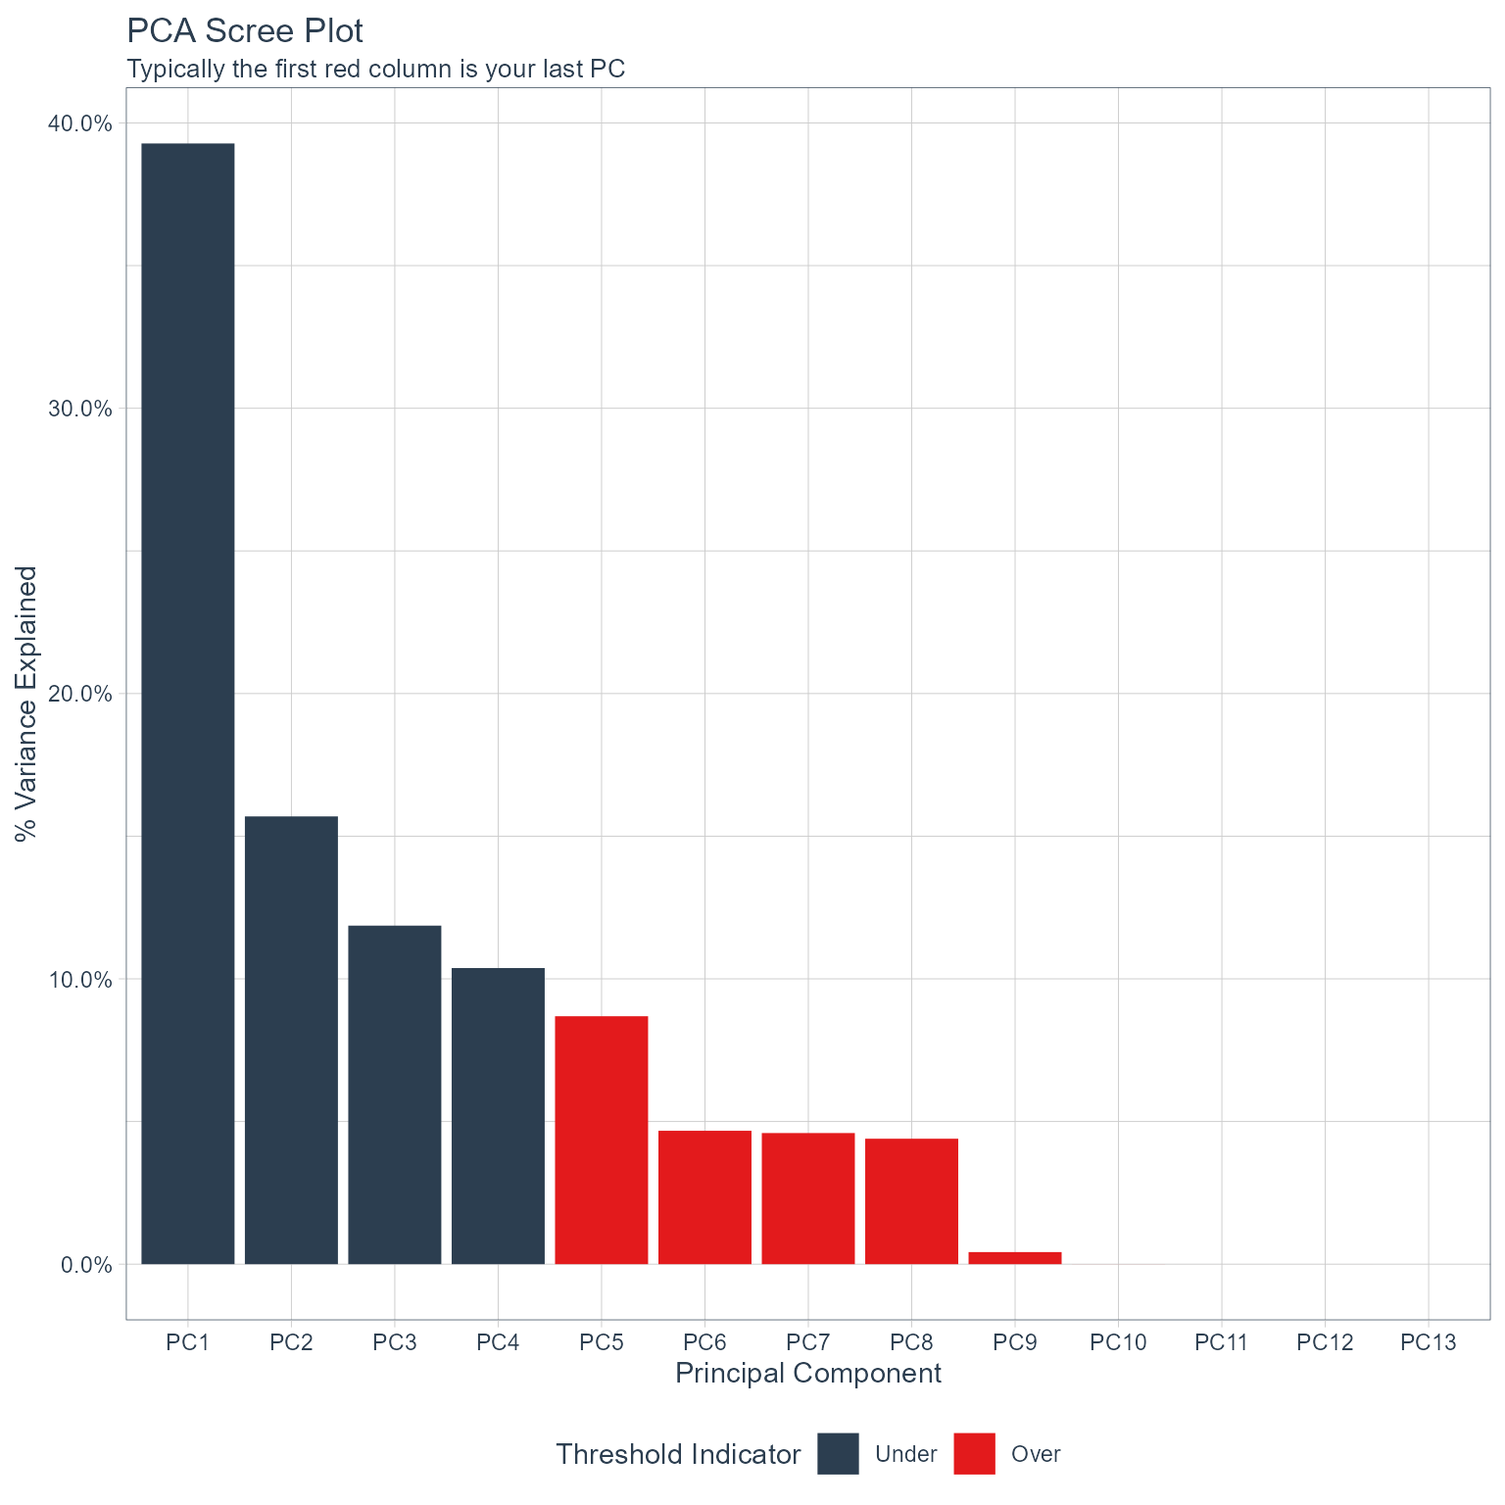
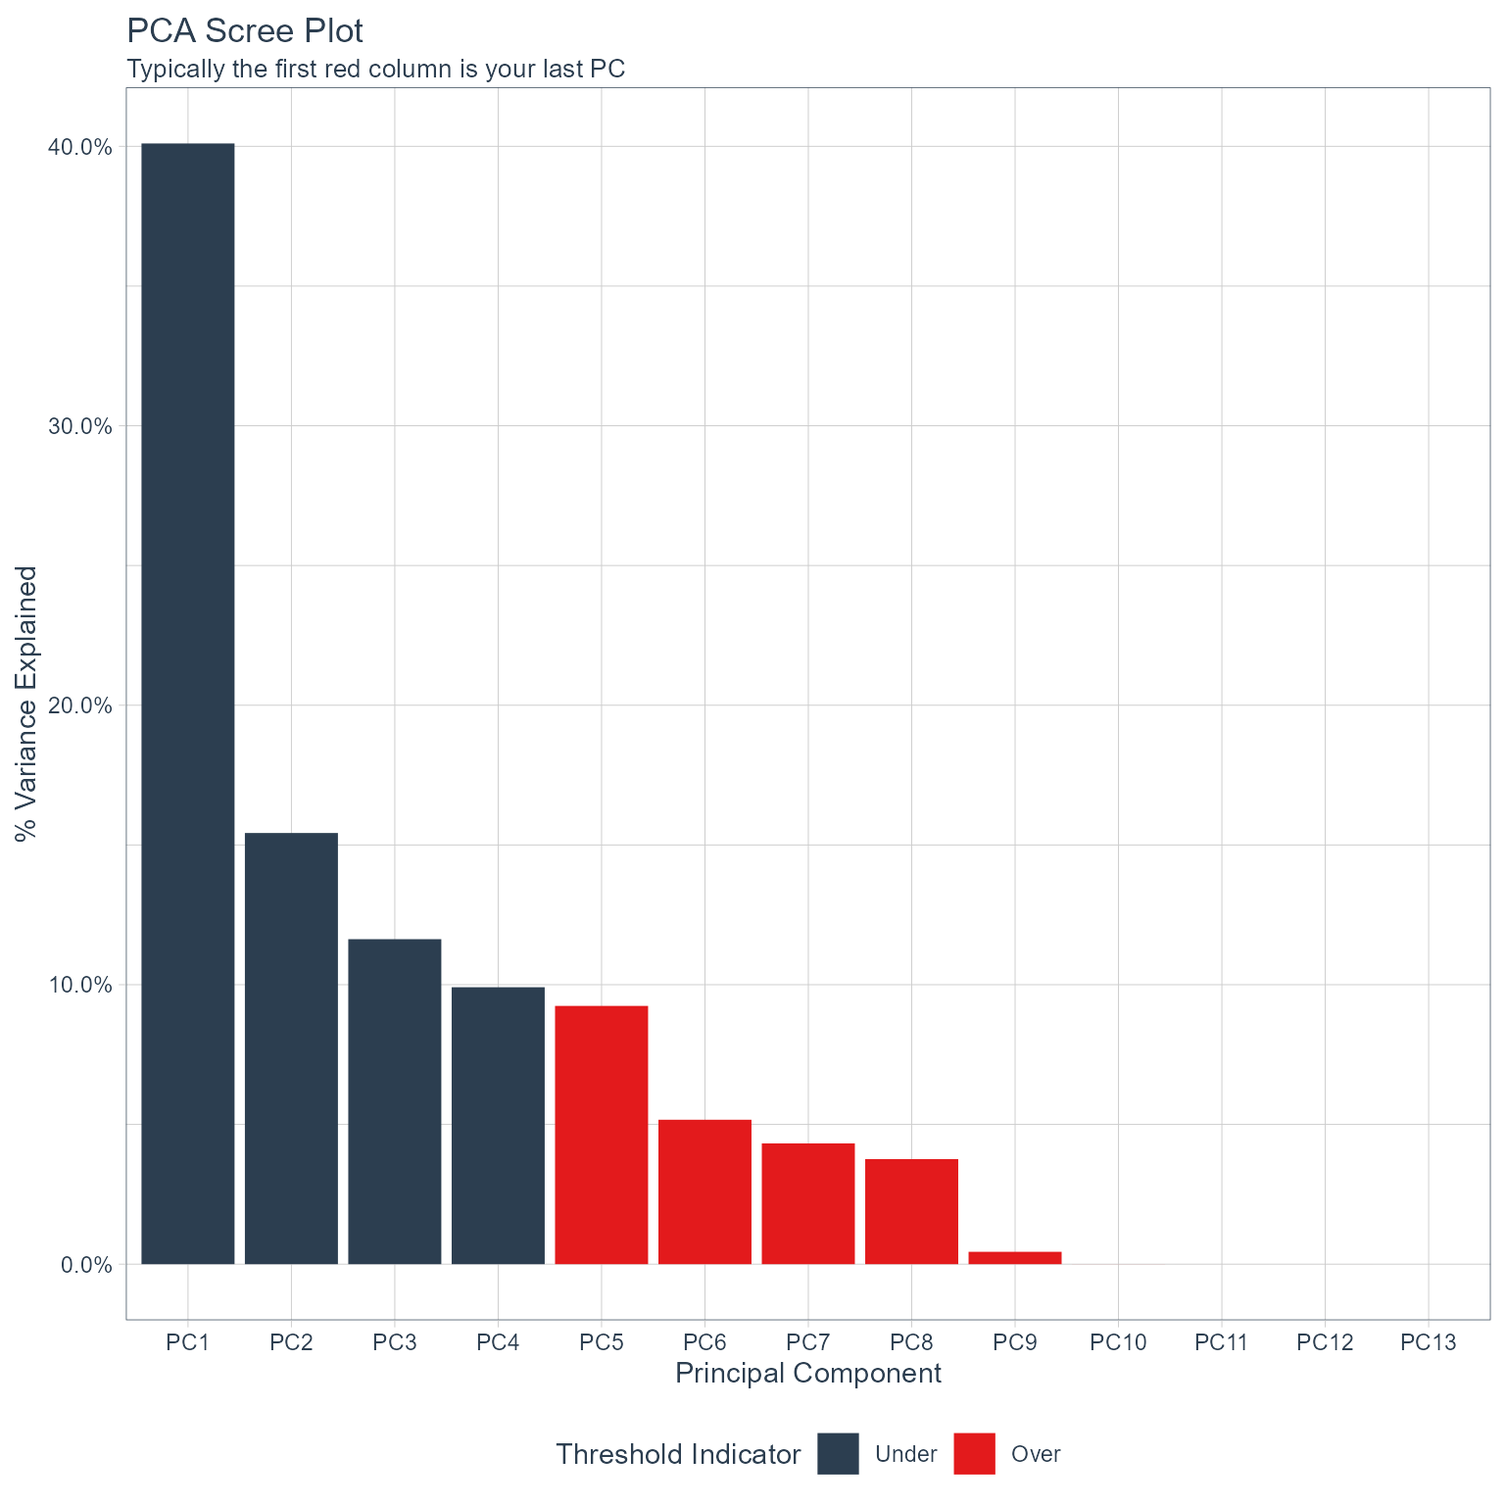
fix reference page

diff --git a/docs/articles/getting-started.html b/docs/articles/getting-started.html
@@ -175,12 +175,12 @@
 <span class="co">#&gt; # A tibble: 6 x 2</span>
 <span class="co">#&gt;   date_col            value</span>
 <span class="co">#&gt;   &lt;dttm&gt;              &lt;int&gt;</span>
-<span class="co">#&gt; 1 2016-10-01 00:00:00  1488</span>
-<span class="co">#&gt; 2 2018-05-01 00:00:00  1677</span>
-<span class="co">#&gt; 3 2020-05-01 00:00:00   716</span>
-<span class="co">#&gt; 4 2020-01-01 00:00:00  1440</span>
-<span class="co">#&gt; 5 2020-02-01 00:00:00  1363</span>
-<span class="co">#&gt; 6 2017-01-01 00:00:00  1635</span></code></pre></div>
+<span class="co">#&gt; 1 2015-08-01 00:00:00  1609</span>
+<span class="co">#&gt; 2 2013-11-01 00:00:00  1669</span>
+<span class="co">#&gt; 3 2018-06-01 00:00:00  1742</span>
+<span class="co">#&gt; 4 2013-09-01 00:00:00  1753</span>
+<span class="co">#&gt; 5 2019-12-01 00:00:00  1381</span>
+<span class="co">#&gt; 6 2020-01-01 00:00:00  1440</span></code></pre></div>
 </div>
 <div id="initial-recipe" class="section level2">
 <h2 class="hasAnchor">
@@ -207,25 +207,25 @@
 <span class="fu"><a href="../reference/get_juiced_data.html">get_juiced_data</a></span><span class="op">(</span><span class="va">rec_obj</span><span class="op">)</span> <span class="op"><a href="../reference/%&gt;%.html">%&gt;%</a></span> <span class="fu"><a href="https://pillar.r-lib.org/reference/glimpse.html">glimpse</a></span><span class="op">(</span><span class="op">)</span>
 <span class="co">#&gt; Rows: 76</span>
 <span class="co">#&gt; Columns: 20</span>
-<span class="co">#&gt; $ date_col           &lt;dttm&gt; 2016-10-01, 2018-05-01, 2020-05-01, 2020-01-01, 20~</span>
-<span class="co">#&gt; $ value              &lt;int&gt; 1488, 1677, 716, 1440, 1363, 1635, 1343, 1757, 1302~</span>
-<span class="co">#&gt; $ date_col_index.num &lt;dbl&gt; 1475280000, 1525132800, 1588291200, 1577836800, 158~</span>
-<span class="co">#&gt; $ date_col_year      &lt;int&gt; 2016, 2018, 2020, 2020, 2020, 2017, 2018, 2014, 201~</span>
-<span class="co">#&gt; $ date_col_half      &lt;int&gt; 2, 1, 1, 1, 1, 1, 2, 2, 2, 1, 2, 2, 1, 2, 2, 1, 2, ~</span>
-<span class="co">#&gt; $ date_col_quarter   &lt;int&gt; 4, 2, 2, 1, 1, 1, 3, 4, 4, 2, 3, 3, 2, 3, 4, 1, 3, ~</span>
-<span class="co">#&gt; $ date_col_month     &lt;int&gt; 10, 5, 5, 1, 2, 1, 9, 12, 11, 6, 8, 7, 4, 9, 11, 2,~</span>
-<span class="co">#&gt; $ date_col_month.lbl &lt;ord&gt; October, May, May, January, February, January, Sept~</span>
+<span class="co">#&gt; $ date_col           &lt;dttm&gt; 2015-08-01, 2013-11-01, 2018-06-01, 2013-09-01, 20~</span>
+<span class="co">#&gt; $ value              &lt;int&gt; 1609, 1669, 1742, 1753, 1381, 1440, 648, 1164, 1692~</span>
+<span class="co">#&gt; $ date_col_index.num &lt;dbl&gt; 1438387200, 1383264000, 1527811200, 1377993600, 157~</span>
+<span class="co">#&gt; $ date_col_year      &lt;int&gt; 2015, 2013, 2018, 2013, 2019, 2020, 2020, 2020, 201~</span>
+<span class="co">#&gt; $ date_col_half      &lt;int&gt; 2, 2, 1, 2, 2, 1, 1, 2, 1, 1, 2, 1, 1, 1, 1, 1, 1, ~</span>
+<span class="co">#&gt; $ date_col_quarter   &lt;int&gt; 3, 4, 2, 3, 4, 1, 2, 4, 1, 2, 3, 1, 1, 1, 1, 1, 1, ~</span>
+<span class="co">#&gt; $ date_col_month     &lt;int&gt; 8, 11, 6, 9, 12, 1, 4, 10, 1, 6, 8, 3, 2, 1, 3, 3, ~</span>
+<span class="co">#&gt; $ date_col_month.lbl &lt;ord&gt; August, November, June, September, December, Januar~</span>
 <span class="co">#&gt; $ date_col_day       &lt;int&gt; 1, 1, 1, 1, 1, 1, 1, 1, 1, 1, 1, 1, 1, 1, 1, 1, 1, ~</span>
-<span class="co">#&gt; $ date_col_wday      &lt;int&gt; 7, 3, 6, 4, 7, 1, 7, 2, 6, 2, 5, 3, 2, 5, 5, 2, 6, ~</span>
-<span class="co">#&gt; $ date_col_wday.lbl  &lt;ord&gt; Saturday, Tuesday, Friday, Wednesday, Saturday, Sun~</span>
+<span class="co">#&gt; $ date_col_wday      &lt;int&gt; 7, 6, 6, 1, 1, 4, 4, 5, 5, 2, 7, 5, 6, 6, 6, 7, 1, ~</span>
+<span class="co">#&gt; $ date_col_wday.lbl  &lt;ord&gt; Saturday, Friday, Friday, Sunday, Sunday, Wednesday~</span>
 <span class="co">#&gt; $ date_col_mday      &lt;int&gt; 1, 1, 1, 1, 1, 1, 1, 1, 1, 1, 1, 1, 1, 1, 1, 1, 1, ~</span>
-<span class="co">#&gt; $ date_col_qday      &lt;int&gt; 1, 31, 31, 1, 32, 1, 63, 62, 32, 62, 32, 1, 1, 63, ~</span>
-<span class="co">#&gt; $ date_col_yday      &lt;int&gt; 275, 121, 122, 1, 32, 1, 244, 335, 305, 152, 213, 1~</span>
-<span class="co">#&gt; $ date_col_mweek     &lt;int&gt; 5, 5, 5, 5, 5, 5, 5, 6, 5, 6, 5, 5, 6, 5, 5, 6, 5, ~</span>
-<span class="co">#&gt; $ date_col_week      &lt;int&gt; 40, 18, 18, 1, 5, 1, 35, 48, 44, 22, 31, 26, 13, 35~</span>
-<span class="co">#&gt; $ date_col_week2     &lt;int&gt; 0, 0, 0, 1, 1, 1, 1, 0, 0, 0, 1, 0, 1, 1, 0, 1, 1, ~</span>
-<span class="co">#&gt; $ date_col_week3     &lt;int&gt; 1, 0, 0, 1, 2, 1, 2, 0, 2, 1, 1, 2, 1, 2, 2, 2, 1, ~</span>
-<span class="co">#&gt; $ date_col_week4     &lt;int&gt; 0, 2, 2, 1, 1, 1, 3, 0, 0, 2, 3, 2, 1, 3, 0, 1, 3, ~</span>
+<span class="co">#&gt; $ date_col_qday      &lt;int&gt; 32, 32, 62, 63, 62, 1, 1, 1, 1, 62, 32, 60, 32, 1, ~</span>
+<span class="co">#&gt; $ date_col_yday      &lt;int&gt; 213, 305, 152, 244, 335, 1, 92, 275, 1, 153, 214, 6~</span>
+<span class="co">#&gt; $ date_col_mweek     &lt;int&gt; 5, 5, 5, 5, 5, 5, 5, 5, 5, 6, 5, 5, 5, 5, 5, 5, 5, ~</span>
+<span class="co">#&gt; $ date_col_week      &lt;int&gt; 31, 44, 22, 35, 48, 1, 14, 40, 1, 22, 31, 9, 5, 1, ~</span>
+<span class="co">#&gt; $ date_col_week2     &lt;int&gt; 1, 0, 0, 1, 0, 1, 0, 0, 1, 0, 1, 1, 1, 1, 1, 1, 1, ~</span>
+<span class="co">#&gt; $ date_col_week3     &lt;int&gt; 1, 2, 1, 2, 0, 1, 2, 1, 1, 1, 1, 0, 2, 1, 0, 0, 2, ~</span>
+<span class="co">#&gt; $ date_col_week4     &lt;int&gt; 3, 0, 2, 3, 0, 1, 2, 0, 1, 2, 3, 1, 1, 1, 1, 1, 1, ~</span>
 <span class="co">#&gt; $ date_col_mday7     &lt;int&gt; 1, 1, 1, 1, 1, 1, 1, 1, 1, 1, 1, 1, 1, 1, 1, 1, 1, ~</span></code></pre></div>
 <p>Now that we have out initial recipe we can use the <code><a href="../reference/pca_your_recipe.html">pca_your_recipe()</a></code> function.</p>
 <div class="sourceCode" id="cb6"><pre class="downlit sourceCode r">
@@ -289,16 +289,16 @@
 <span class="co">#&gt; # A tibble: 169 x 4</span>
 <span class="co">#&gt;    terms                 value component id       </span>
 <span class="co">#&gt;    &lt;chr&gt;                 &lt;dbl&gt; &lt;chr&gt;     &lt;chr&gt;    </span>
-<span class="co">#&gt;  1 date_col_index.num  0.00216 PC1       pca_aZlSN</span>
-<span class="co">#&gt;  2 date_col_year      -0.0528  PC1       pca_aZlSN</span>
-<span class="co">#&gt;  3 date_col_half       0.389   PC1       pca_aZlSN</span>
-<span class="co">#&gt;  4 date_col_quarter    0.436   PC1       pca_aZlSN</span>
-<span class="co">#&gt;  5 date_col_month      0.440   PC1       pca_aZlSN</span>
-<span class="co">#&gt;  6 date_col_wday       0.0101  PC1       pca_aZlSN</span>
-<span class="co">#&gt;  7 date_col_qday       0.0742  PC1       pca_aZlSN</span>
-<span class="co">#&gt;  8 date_col_yday       0.440   PC1       pca_aZlSN</span>
-<span class="co">#&gt;  9 date_col_mweek      0.0240  PC1       pca_aZlSN</span>
-<span class="co">#&gt; 10 date_col_week       0.440   PC1       pca_aZlSN</span>
+<span class="co">#&gt;  1 date_col_index.num  0.0198  PC1       pca_fC6Ve</span>
+<span class="co">#&gt;  2 date_col_year      -0.0347  PC1       pca_fC6Ve</span>
+<span class="co">#&gt;  3 date_col_half       0.382   PC1       pca_fC6Ve</span>
+<span class="co">#&gt;  4 date_col_quarter    0.430   PC1       pca_fC6Ve</span>
+<span class="co">#&gt;  5 date_col_month      0.435   PC1       pca_fC6Ve</span>
+<span class="co">#&gt;  6 date_col_wday      -0.00614 PC1       pca_fC6Ve</span>
+<span class="co">#&gt;  7 date_col_qday       0.0980  PC1       pca_fC6Ve</span>
+<span class="co">#&gt;  8 date_col_yday       0.435   PC1       pca_fC6Ve</span>
+<span class="co">#&gt;  9 date_col_mweek     -0.0484  PC1       pca_fC6Ve</span>
+<span class="co">#&gt; 10 date_col_week       0.436   PC1       pca_fC6Ve</span>
 <span class="co">#&gt; # ... with 159 more rows</span></code></pre></div>
 </div>
 <div id="variable-variance" class="section level2">
@@ -309,16 +309,16 @@
 <span class="co">#&gt; # A tibble: 52 x 4</span>
 <span class="co">#&gt;    terms       value component id       </span>
 <span class="co">#&gt;    &lt;chr&gt;       &lt;dbl&gt;     &lt;int&gt; &lt;chr&gt;    </span>
-<span class="co">#&gt;  1 variance 5.11             1 pca_aZlSN</span>
-<span class="co">#&gt;  2 variance 2.04             2 pca_aZlSN</span>
-<span class="co">#&gt;  3 variance 1.54             3 pca_aZlSN</span>
-<span class="co">#&gt;  4 variance 1.35             4 pca_aZlSN</span>
-<span class="co">#&gt;  5 variance 1.13             5 pca_aZlSN</span>
-<span class="co">#&gt;  6 variance 0.608            6 pca_aZlSN</span>
-<span class="co">#&gt;  7 variance 0.597            7 pca_aZlSN</span>
-<span class="co">#&gt;  8 variance 0.572            8 pca_aZlSN</span>
-<span class="co">#&gt;  9 variance 0.0550           9 pca_aZlSN</span>
-<span class="co">#&gt; 10 variance 0.000219        10 pca_aZlSN</span>
+<span class="co">#&gt;  1 variance 5.21             1 pca_fC6Ve</span>
+<span class="co">#&gt;  2 variance 2.01             2 pca_fC6Ve</span>
+<span class="co">#&gt;  3 variance 1.51             3 pca_fC6Ve</span>
+<span class="co">#&gt;  4 variance 1.29             4 pca_fC6Ve</span>
+<span class="co">#&gt;  5 variance 1.20             5 pca_fC6Ve</span>
+<span class="co">#&gt;  6 variance 0.672            6 pca_fC6Ve</span>
+<span class="co">#&gt;  7 variance 0.562            7 pca_fC6Ve</span>
+<span class="co">#&gt;  8 variance 0.489            8 pca_fC6Ve</span>
+<span class="co">#&gt;  9 variance 0.0575           9 pca_fC6Ve</span>
+<span class="co">#&gt; 10 variance 0.000223        10 pca_fC6Ve</span>
 <span class="co">#&gt; # ... with 42 more rows</span></code></pre></div>
 </div>
 <div id="pca-estimates" class="section level2">
@@ -352,28 +352,28 @@
 <code class="sourceCode R"><span class="va">pca_list</span><span class="op">$</span><span class="va">pca_juiced_estimates</span> <span class="op"><a href="../reference/%&gt;%.html">%&gt;%</a></span> <span class="fu"><a href="https://pillar.r-lib.org/reference/glimpse.html">glimpse</a></span><span class="op">(</span><span class="op">)</span>
 <span class="co">#&gt; Rows: 76</span>
 <span class="co">#&gt; Columns: 9</span>
-<span class="co">#&gt; $ date_col           &lt;dttm&gt; 2016-10-01, 2018-05-01, 2020-05-01, 2020-01-01, 20~</span>
-<span class="co">#&gt; $ value              &lt;dbl&gt; -0.26943316, 0.51052209, -3.45528213, -0.46751704, ~</span>
-<span class="co">#&gt; $ date_col_month.lbl &lt;ord&gt; October, May, May, January, February, January, Sept~</span>
-<span class="co">#&gt; $ date_col_wday.lbl  &lt;ord&gt; Saturday, Tuesday, Friday, Wednesday, Saturday, Sun~</span>
-<span class="co">#&gt; $ PC1                &lt;dbl&gt; 2.6015686, -1.0634148, -1.0890273, -3.4795109, -2.9~</span>
-<span class="co">#&gt; $ PC2                &lt;dbl&gt; 0.4220103, 0.9306267, 2.2470087, 2.1774727, 2.09733~</span>
-<span class="co">#&gt; $ PC3                &lt;dbl&gt; -0.698548676, -0.939380785, -1.530512361, 0.1184066~</span>
-<span class="co">#&gt; $ PC4                &lt;dbl&gt; -1.0984847, -0.7245468, -0.2251722, -0.5613976, 0.6~</span>
-<span class="co">#&gt; $ PC5                &lt;dbl&gt; -1.788742291, 1.157340240, 0.582084077, -0.47863734~</span>
+<span class="co">#&gt; $ date_col           &lt;dttm&gt; 2015-08-01, 2013-11-01, 2018-06-01, 2013-09-01, 20~</span>
+<span class="co">#&gt; $ value              &lt;dbl&gt; 0.24422260, 0.45438585, 0.71008447, 0.74861440, -0.~</span>
+<span class="co">#&gt; $ date_col_month.lbl &lt;ord&gt; August, November, June, September, December, Januar~</span>
+<span class="co">#&gt; $ date_col_wday.lbl  &lt;ord&gt; Saturday, Friday, Friday, Sunday, Sunday, Wednesday~</span>
+<span class="co">#&gt; $ PC1                &lt;dbl&gt; 0.6985903, 3.0886819, -0.4417909, 1.2407601, 3.4910~</span>
+<span class="co">#&gt; $ PC2                &lt;dbl&gt; 0.8089816, 1.8794085, -0.6480920, 1.8580426, -1.627~</span>
+<span class="co">#&gt; $ PC3                &lt;dbl&gt; 0.7914199, 0.1468304, 1.5256190, -1.1863952, 0.6055~</span>
+<span class="co">#&gt; $ PC4                &lt;dbl&gt; 2.41440169, -0.01375129, 0.19809541, 1.91218715, -1~</span>
+<span class="co">#&gt; $ PC5                &lt;dbl&gt; -0.2244243, -1.5118530, 0.6313643, 0.9124519, 1.537~</span>
 
 <span class="va">pca_list</span><span class="op">$</span><span class="va">pca_baked_data</span> <span class="op"><a href="../reference/%&gt;%.html">%&gt;%</a></span> <span class="fu"><a href="https://pillar.r-lib.org/reference/glimpse.html">glimpse</a></span><span class="op">(</span><span class="op">)</span>
 <span class="co">#&gt; Rows: 95</span>
 <span class="co">#&gt; Columns: 9</span>
 <span class="co">#&gt; $ date_col           &lt;dttm&gt; 2013-01-01, 2013-02-01, 2013-03-01, 2013-04-01, 20~</span>
-<span class="co">#&gt; $ value              &lt;dbl&gt; 2.1818548, 0.6838455, 1.0016050, 1.2863506, 1.95901~</span>
+<span class="co">#&gt; $ value              &lt;dbl&gt; 1.9010095, 0.6295219, 0.8992314, 1.1409191, 1.71186~</span>
 <span class="co">#&gt; $ date_col_month.lbl &lt;ord&gt; January, February, March, April, May, June, July, A~</span>
 <span class="co">#&gt; $ date_col_wday.lbl  &lt;ord&gt; Tuesday, Friday, Friday, Monday, Wednesday, Saturda~</span>
-<span class="co">#&gt; $ PC1                &lt;dbl&gt; -3.2740480, -2.8029873, -2.4340358, -1.7690321, -0.~</span>
-<span class="co">#&gt; $ PC2                &lt;dbl&gt; -2.2525694, -2.1605160, -2.3688294, -2.1577297, -2.~</span>
-<span class="co">#&gt; $ PC3                &lt;dbl&gt; 1.64623321, -0.21290928, -1.88734504, 1.82120754, -~</span>
-<span class="co">#&gt; $ PC4                &lt;dbl&gt; -1.2710504, 0.2449140, 0.1883718, -1.2986645, -0.79~</span>
-<span class="co">#&gt; $ PC5                &lt;dbl&gt; -0.21002701, -1.76270279, 0.17234976, 0.14299251, 0~</span></code></pre></div>
+<span class="co">#&gt; $ PC1                &lt;dbl&gt; -3.3910295, -2.7734758, -2.3646755, -1.9344192, -0.~</span>
+<span class="co">#&gt; $ PC2                &lt;dbl&gt; 1.9598530, 2.1967039, 2.3811060, 1.8288612, 2.23881~</span>
+<span class="co">#&gt; $ PC3                &lt;dbl&gt; -1.83031823, 0.31778965, 1.71674466, -2.14244734, 0~</span>
+<span class="co">#&gt; $ PC4                &lt;dbl&gt; -0.65104379, 0.51804259, -0.10859060, -0.70396716, ~</span>
+<span class="co">#&gt; $ PC5                &lt;dbl&gt; -0.19682152, -1.19740767, 0.85566318, 0.03176747, 0~</span></code></pre></div>
 </div>
 <div id="roatation-data" class="section level2">
 <h2 class="hasAnchor">
@@ -382,19 +382,19 @@
 <code class="sourceCode R"><span class="va">pca_list</span><span class="op">$</span><span class="va">pca_rotation_df</span> <span class="op"><a href="../reference/%&gt;%.html">%&gt;%</a></span> <span class="fu"><a href="https://pillar.r-lib.org/reference/glimpse.html">glimpse</a></span><span class="op">(</span><span class="op">)</span>
 <span class="co">#&gt; Rows: 13</span>
 <span class="co">#&gt; Columns: 13</span>
-<span class="co">#&gt; $ PC1  &lt;dbl&gt; 0.002156371, -0.052798239, 0.389435454, 0.435624669, 0.439848945,~</span>
-<span class="co">#&gt; $ PC2  &lt;dbl&gt; 0.691154662, 0.687195349, 0.022108759, 0.048039929, 0.004085394, ~</span>
-<span class="co">#&gt; $ PC3  &lt;dbl&gt; 0.001703056, 0.005494679, 0.190067201, 0.061481052, -0.031480219,~</span>
-<span class="co">#&gt; $ PC4  &lt;dbl&gt; 0.05088571, 0.04376812, 0.20540551, -0.03458633, 0.05442503, 0.29~</span>
-<span class="co">#&gt; $ PC5  &lt;dbl&gt; 0.1231670907, 0.1161398952, -0.1008553548, -0.0583479825, 0.05361~</span>
-<span class="co">#&gt; $ PC6  &lt;dbl&gt; 0.057799276, 0.055398036, -0.171971148, -0.073039891, 0.014012689~</span>
-<span class="co">#&gt; $ PC7  &lt;dbl&gt; -0.062803490, -0.061936764, 0.155925000, 0.111650107, -0.00171491~</span>
-<span class="co">#&gt; $ PC8  &lt;dbl&gt; -0.02612481, -0.02178835, -0.23733777, -0.01901841, -0.03060773, ~</span>
-<span class="co">#&gt; $ PC9  &lt;dbl&gt; -0.001175072, 0.026144323, 0.805690237, -0.270782505, -0.21610683~</span>
-<span class="co">#&gt; $ PC10 &lt;dbl&gt; 0.0131333324, -0.0117947718, 0.0004780183, 0.3070799680, 0.369568~</span>
-<span class="co">#&gt; $ PC11 &lt;dbl&gt; -2.544687e-02, 2.639827e-02, -7.290958e-04, -7.115435e-03, 6.4291~</span>
-<span class="co">#&gt; $ PC12 &lt;dbl&gt; -8.467192e-03, 8.271033e-03, -3.006965e-03, -7.825431e-01, 4.4936~</span>
-<span class="co">#&gt; $ PC13 &lt;dbl&gt; 7.040437e-01, -7.075117e-01, -6.489516e-05, -3.653460e-02, 3.5269~</span></code></pre></div>
+<span class="co">#&gt; $ PC1  &lt;dbl&gt; 0.019804622, -0.034663826, 0.382425690, 0.429702422, 0.435430675,~</span>
+<span class="co">#&gt; $ PC2  &lt;dbl&gt; -0.700678999, -0.699376472, -0.042718675, -0.024160366, -0.002803~</span>
+<span class="co">#&gt; $ PC3  &lt;dbl&gt; 0.082801341, 0.082207497, -0.121890482, -0.064029848, 0.005200180~</span>
+<span class="co">#&gt; $ PC4  &lt;dbl&gt; -0.004175014, -0.010091274, 0.283653550, 0.020868692, 0.046825680~</span>
+<span class="co">#&gt; $ PC5  &lt;dbl&gt; 0.03866907, 0.03063115, -0.09561371, -0.09456731, 0.06531896, -0.~</span>
+<span class="co">#&gt; $ PC6  &lt;dbl&gt; -0.033201425, -0.033534547, 0.211038729, 0.145832874, 0.006293596~</span>
+<span class="co">#&gt; $ PC7  &lt;dbl&gt; 0.0243236971, 0.0281027201, -0.2250717855, 0.0001788331, -0.02760~</span>
+<span class="co">#&gt; $ PC8  &lt;dbl&gt; -0.005391114, -0.007614959, 0.047356077, 0.001266594, 0.016640322~</span>
+<span class="co">#&gt; $ PC9  &lt;dbl&gt; -0.01221326, 0.01611969, 0.80619193, -0.27752918, -0.22629139, -0~</span>
+<span class="co">#&gt; $ PC10 &lt;dbl&gt; 0.0131715686, -0.0120660071, 0.0086486017, 0.3035240796, 0.368143~</span>
+<span class="co">#&gt; $ PC11 &lt;dbl&gt; 0.0253506736, -0.0263049385, 0.0015596194, 0.0688093415, -0.67567~</span>
+<span class="co">#&gt; $ PC12 &lt;dbl&gt; -3.866374e-05, 6.872794e-04, 2.675676e-03, 7.779999e-01, -3.99413~</span>
+<span class="co">#&gt; $ PC13 &lt;dbl&gt; 7.054074e-01, -7.062596e-01, -1.447103e-04, -2.927445e-02, -4.079~</span></code></pre></div>
 </div>
 <div id="variance-and-scree-plot" class="section level2">
 <h2 class="hasAnchor">
@@ -404,10 +404,10 @@
 <span class="co">#&gt; Rows: 13</span>
 <span class="co">#&gt; Columns: 6</span>
 <span class="co">#&gt; $ PC              &lt;chr&gt; "PC1", "PC2", "PC3", "PC4", "PC5", "PC6", "PC7", "PC8"~</span>
-<span class="co">#&gt; $ var_explained   &lt;dbl&gt; 3.928046e-01, 1.569338e-01, 1.186505e-01, 1.037874e-01~</span>
-<span class="co">#&gt; $ var_pct_txt     &lt;chr&gt; "39.28%", "15.69%", "11.87%", "10.38%", "8.69%", "4.68~</span>
-<span class="co">#&gt; $ cum_var_pct     &lt;dbl&gt; 0.3928046, 0.5497384, 0.6683889, 0.7721763, 0.8590724,~</span>
-<span class="co">#&gt; $ cum_var_pct_txt &lt;chr&gt; "39.28%", "54.97%", "66.84%", "77.22%", "85.91%", "90.~</span>
+<span class="co">#&gt; $ var_explained   &lt;dbl&gt; 4.010168e-01, 1.542808e-01, 1.162853e-01, 9.909096e-02~</span>
+<span class="co">#&gt; $ var_pct_txt     &lt;chr&gt; "40.10%", "15.43%", "11.63%", "9.91%", "9.24%", "5.17%~</span>
+<span class="co">#&gt; $ cum_var_pct     &lt;dbl&gt; 0.4010168, 0.5552977, 0.6715830, 0.7706739, 0.8630798,~</span>
+<span class="co">#&gt; $ cum_var_pct_txt &lt;chr&gt; "40.10%", "55.53%", "67.16%", "77.07%", "86.31%", "91.~</span>
 <span class="co">#&gt; $ ou_threshold    &lt;fct&gt; Under, Under, Under, Under, Over, Over, Over, Over, Ov~</span></code></pre></div>
 <div class="sourceCode" id="cb14"><pre class="downlit sourceCode r">
 <code class="sourceCode R"><span class="va">pca_list</span><span class="op">$</span><span class="va">pca_variance_scree_plt</span></code></pre></div>

diff --git a/docs/reference/index.html b/docs/reference/index.html
@@ -295,6 +295,12 @@
           <p><code><a href="step_hai_fourier.html">step_hai_fourier()</a></code> </p>
         </td>
         <td><p>Recipes Step Fourier Generator</p></td>
+      </tr><tr>
+        
+        <td>
+          <p><code><a href="step_hai_fourier_discrete.html">step_hai_fourier_discrete()</a></code> </p>
+        </td>
+        <td><p>Recipes Step Fourier Discrete Generator</p></td>
       </tr>
     </tbody><tbody>
       <tr>
@@ -320,6 +326,12 @@
           <p><code><a href="hai_fourier_vec.html">hai_fourier_vec()</a></code> </p>
         </td>
         <td><p>Vector Function Fourier</p></td>
+      </tr><tr>
+        
+        <td>
+          <p><code><a href="hai_fourier_discrete_vec.html">hai_fourier_discrete_vec()</a></code> </p>
+        </td>
+        <td><p>Vector Function Discrete Fourier</p></td>
       </tr>
     </tbody><tbody>
       <tr>
